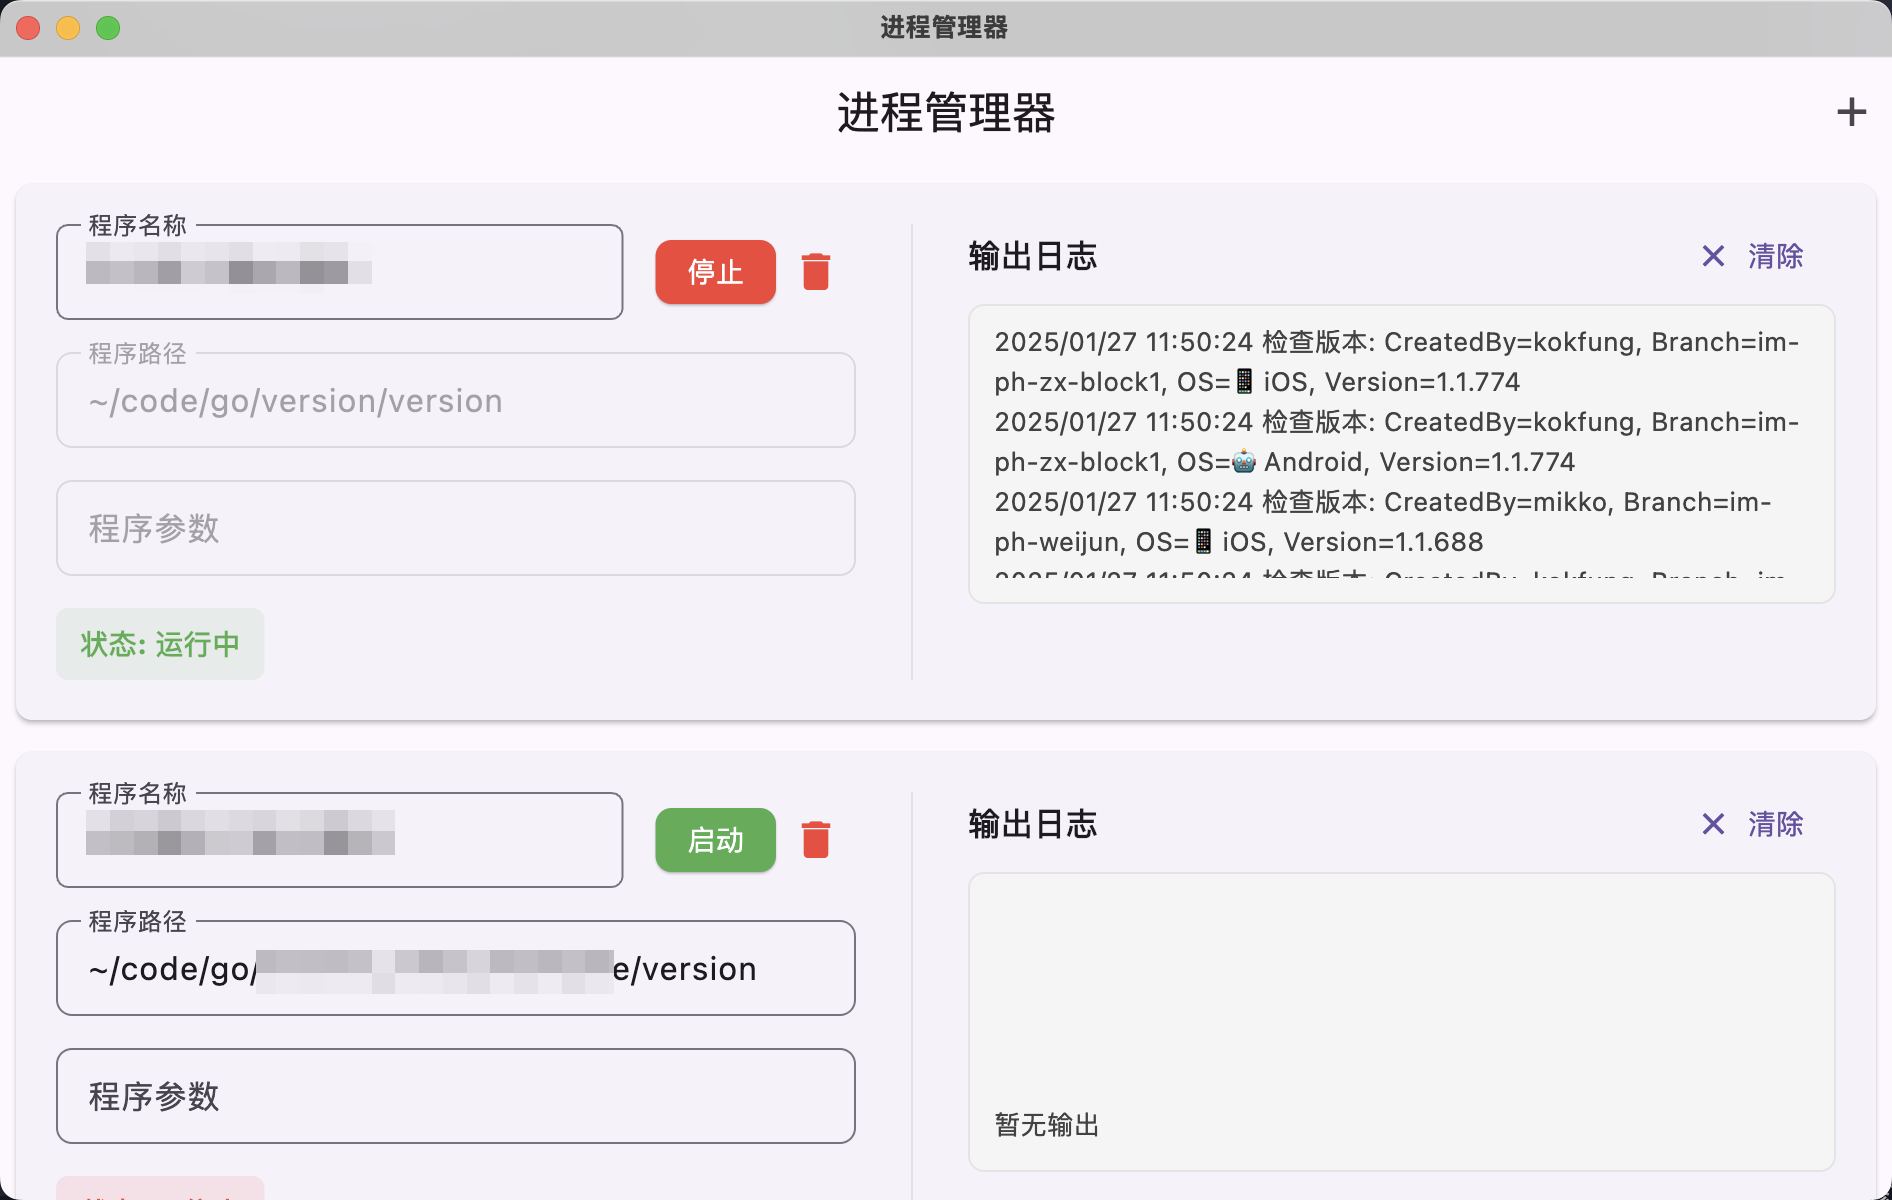
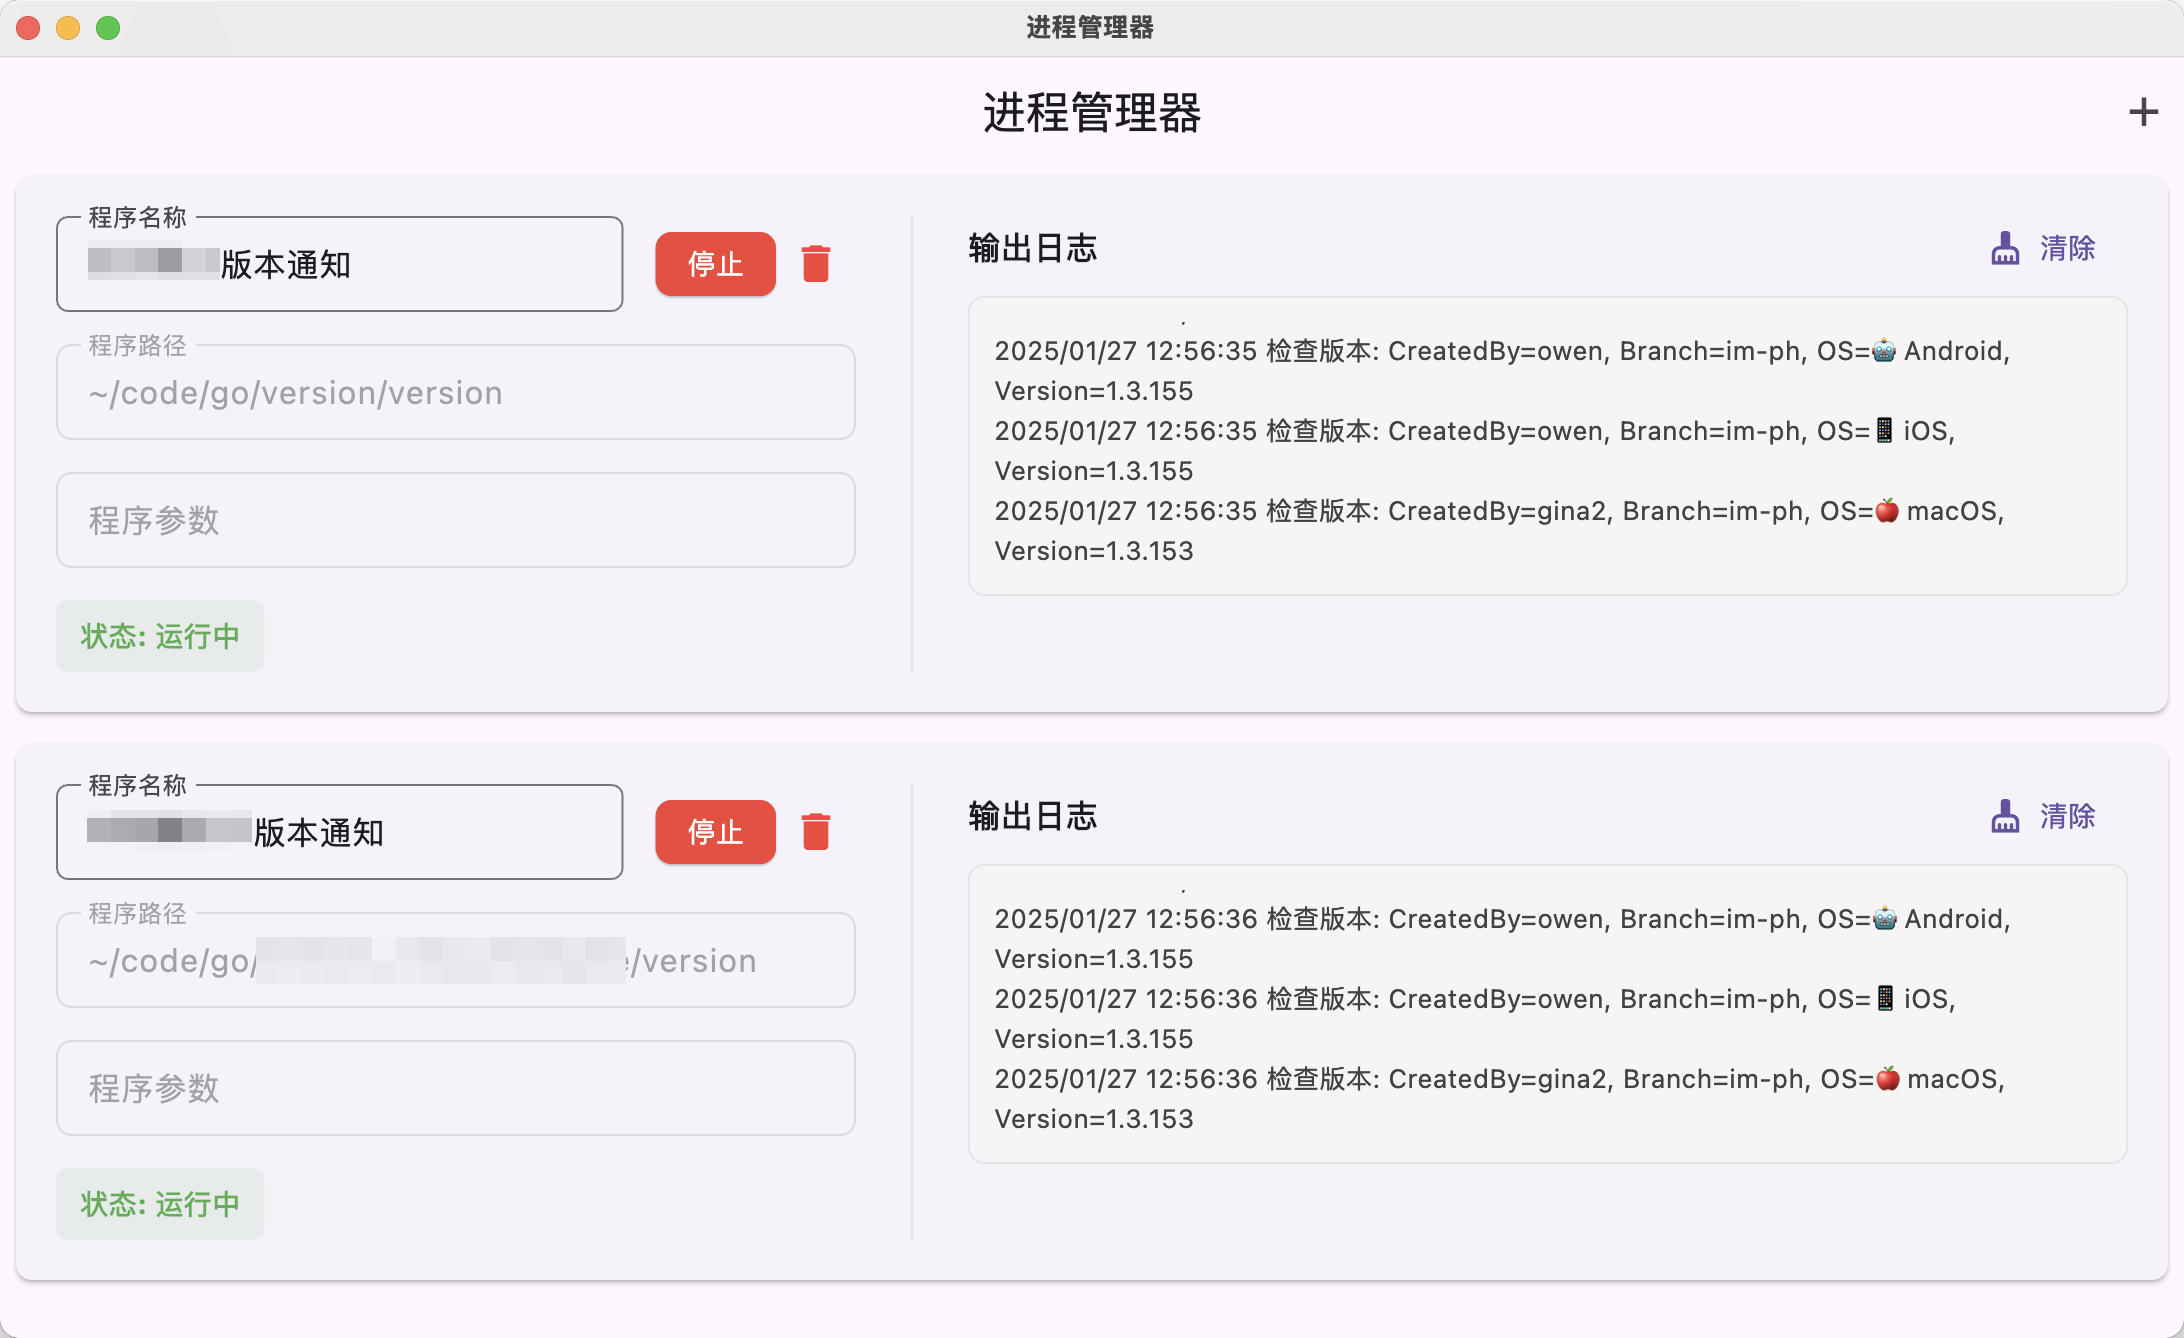
界面UI优化

diff --git a/lib/main.dart b/lib/main.dart
@@ -218,7 +218,7 @@ class _ProcessManagerHomeState extends State<ProcessManagerHome> with WindowList
         ),
         body: SingleChildScrollView(  // 添加整体滚动支持
           child: Padding(
-            padding: const EdgeInsets.all(8.0),
+            padding: const EdgeInsets.symmetric(horizontal: 8.0, vertical: 4.0), // 修改垂直方向的间距
             child: Column(
               children: List.generate(
                 processes.length,
